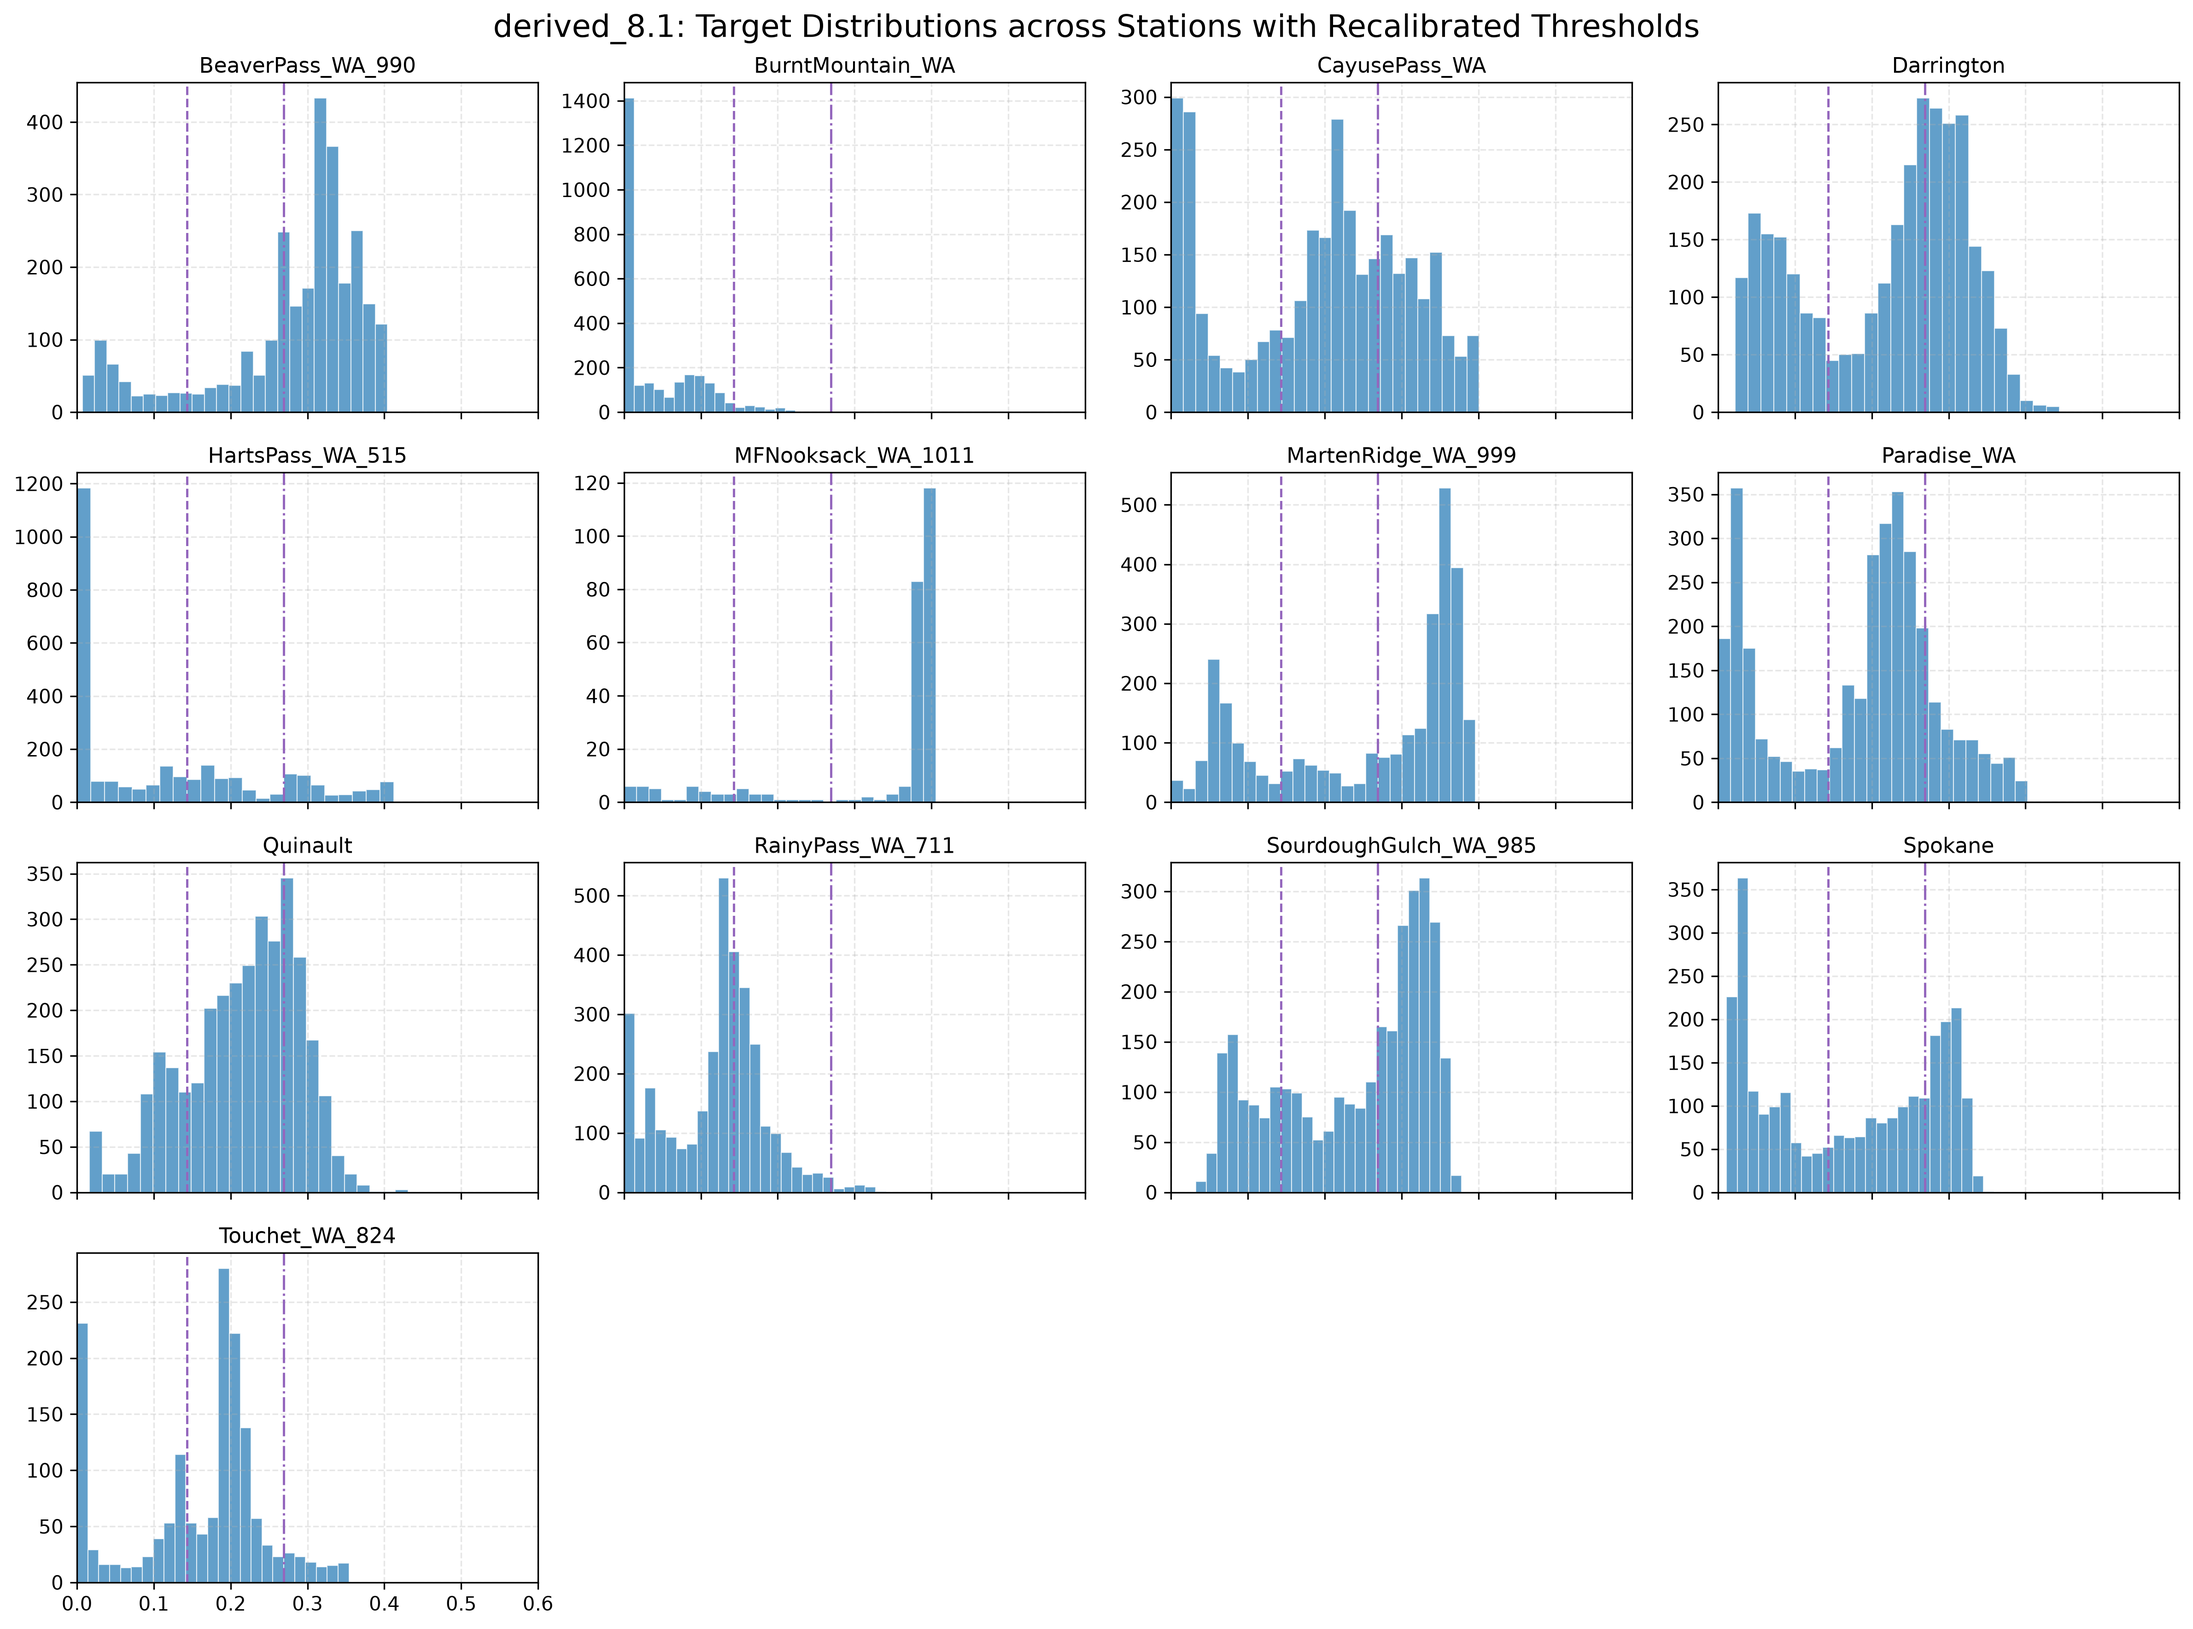
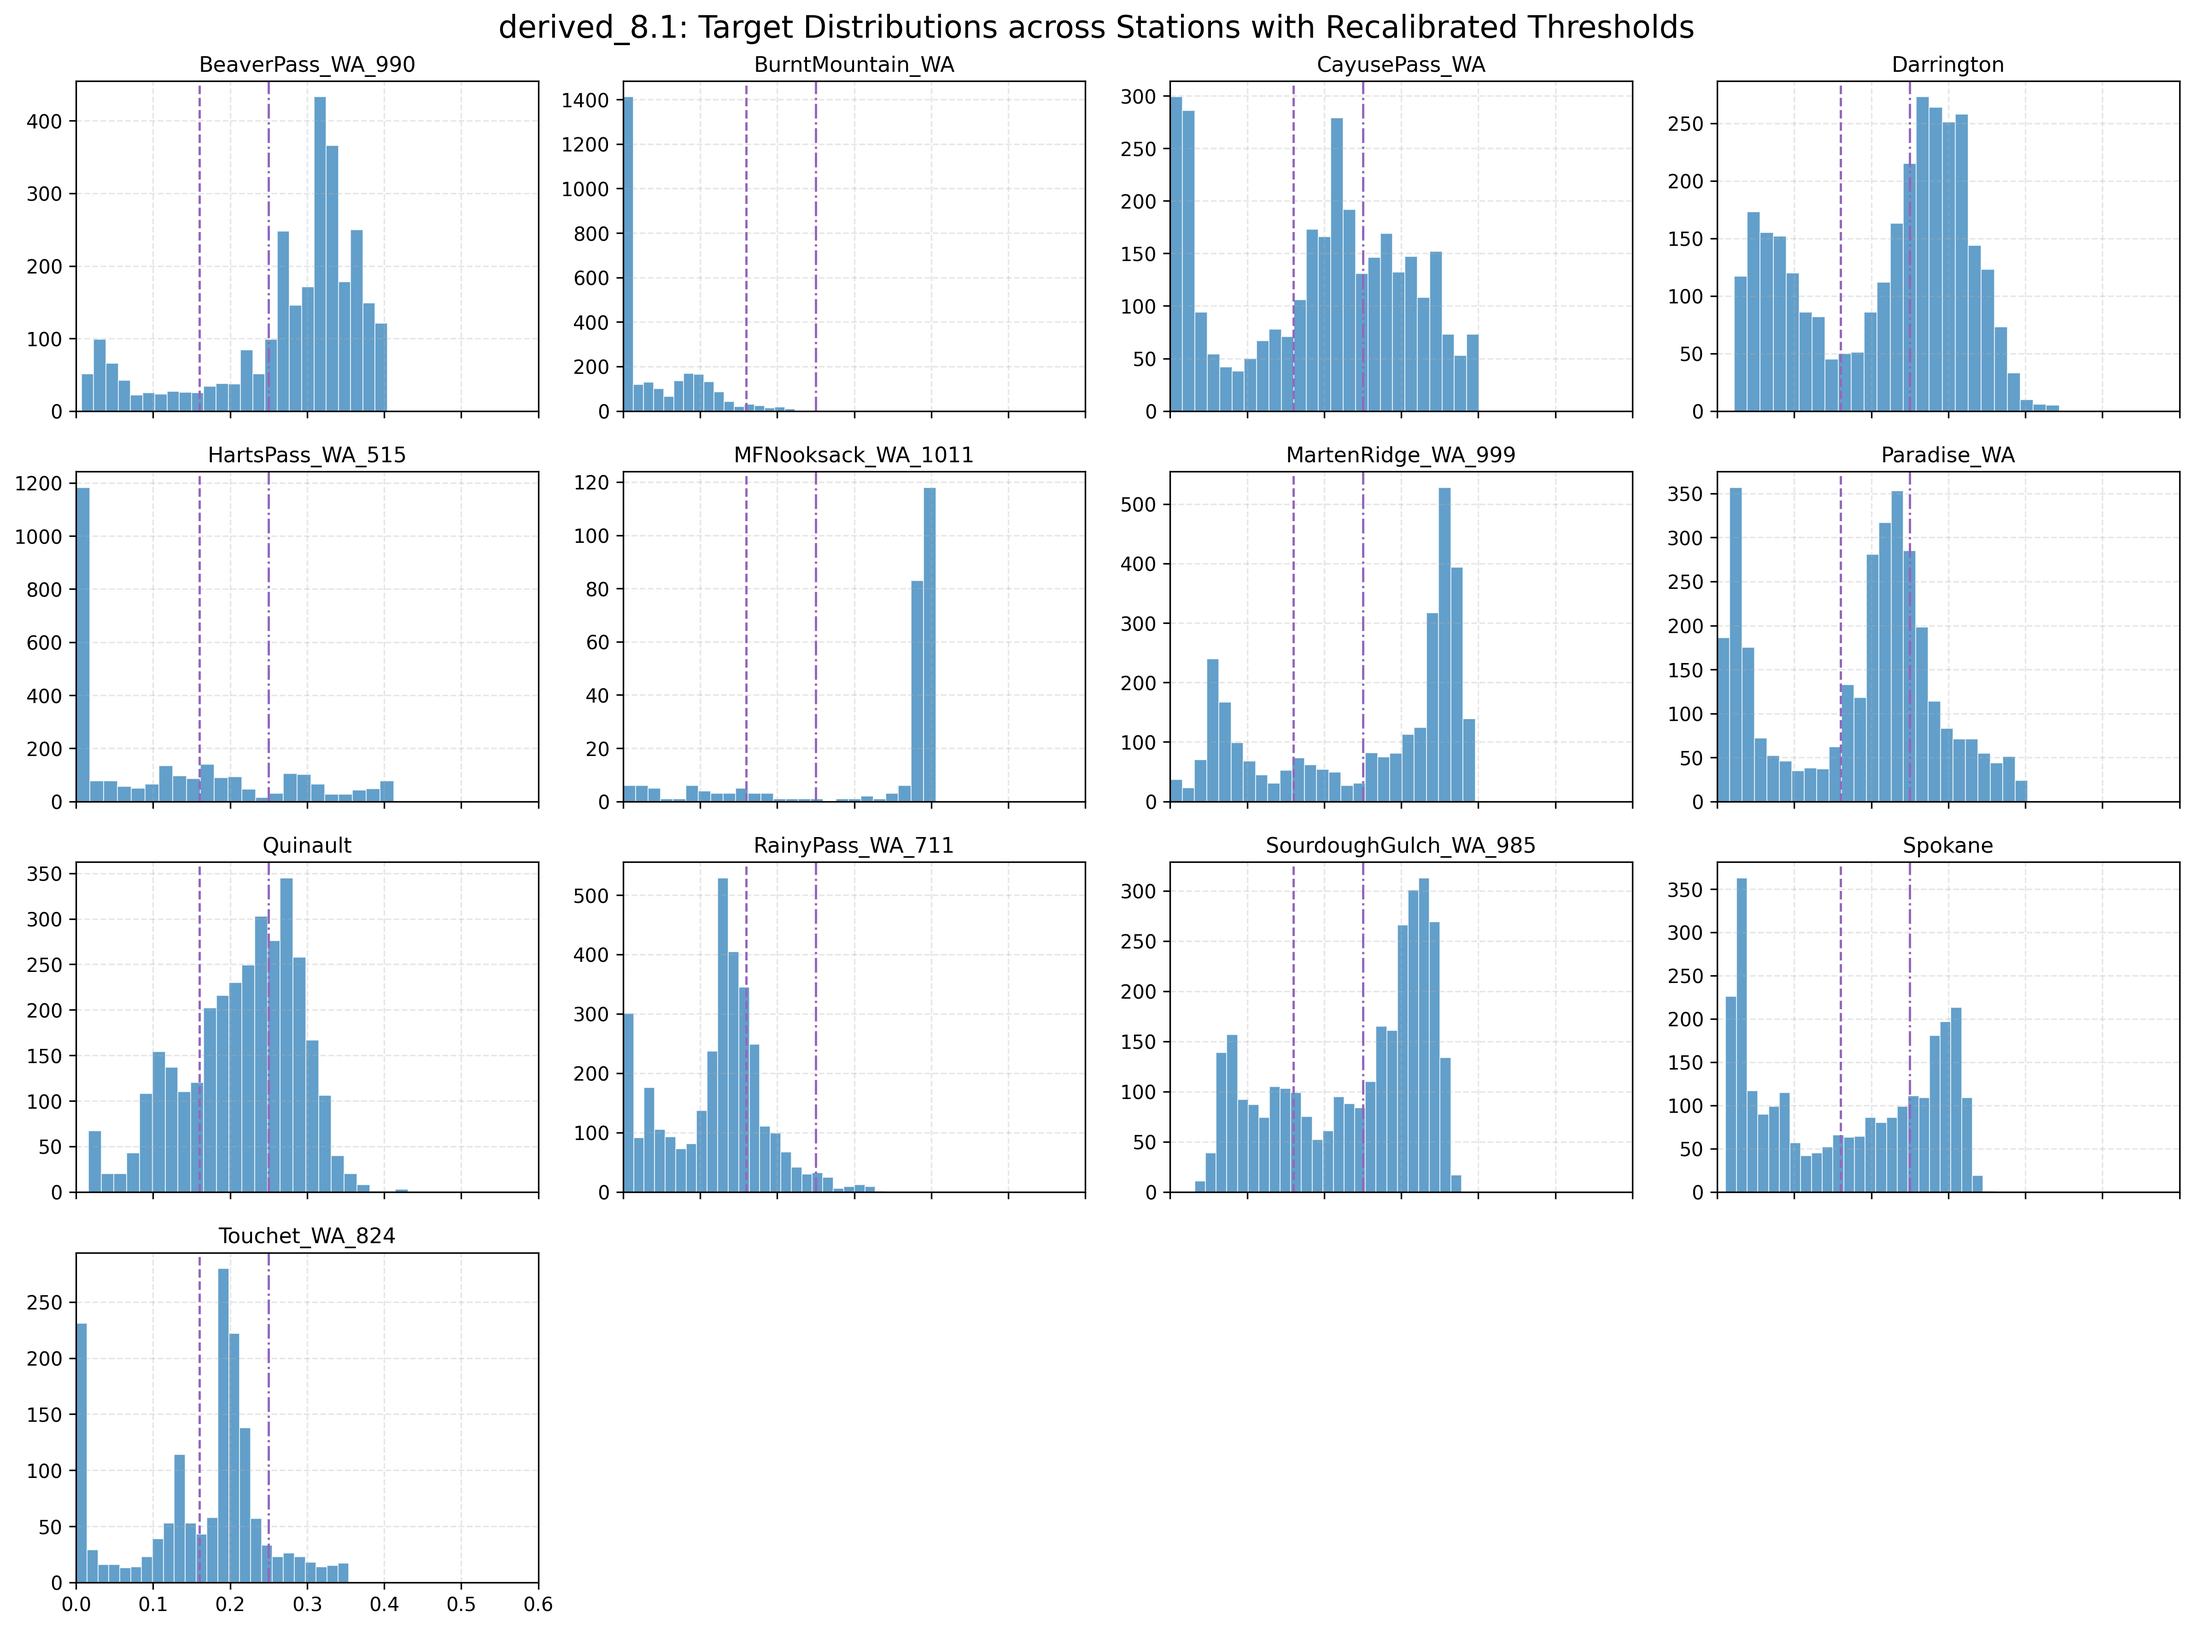
new thresholds for derived_8.1

diff --git a/notebooks/experiment/derived_8.1-data-exploration/analyze_regimes.py b/notebooks/experiment/derived_8.1-data-exploration/analyze_regimes.py
@@ -69,12 +69,12 @@ def main():
     
     t1_80_orig, t2_80_orig = 0.20, 0.313
     t1_90, t2_90 = 0.0993, 0.2115
-    t1_81_cal, t2_81_cal = d81_train["soil_moisture_5cm"].quantile(0.33), d81_train["soil_moisture_5cm"].quantile(0.66)
+    t1_81_cal, t2_81_cal = 0.16, 0.25
     
     print("\n=== Threshold Calibration Options ===")
     print(f"1. Original 8.0 thresholds:       t1 = {t1_80_orig:.4f}, t2 = {t2_80_orig:.4f}")
     print(f"2. Current 9.0 thresholds:        t1 = {t1_90:.4f}, t2 = {t2_90:.4f}")
-    print(f"3. Recalibrated 8.1 thresholds (33/66 percentiles on 8.1 Train): t1 = {t1_81_cal:.4f}, t2 = {t2_81_cal:.4f}")
+    print(f"3. Recalibrated 8.1 thresholds (valleys-based on 8.1 Train): t1 = {t1_81_cal:.4f}, t2 = {t2_81_cal:.4f}")
     
     # Analyze regimes helper
     def analyze_regime_distribution(df, t1, t2, label):
@@ -242,11 +242,11 @@ def main():
     categories = [
         "derived_8.0 Train\n(Orig thresholds: t1=0.20, t2=0.313)",
         "derived_8.1 Train\n(Orig thresholds: t1=0.20, t2=0.313)",
-        "derived_8.1 Train\n(Recalibrated: t1=0.143, t2=0.269)"
+        "derived_8.1 Train\n(Recalibrated: t1=0.160, t2=0.250)"
     ]
-    dry_pcts = [47.7, 47.8, 32.9]
-    trans_pcts = [39.5, 31.1, 33.0]
-    wet_pcts = [12.8, 21.1, 34.1]
+    dry_pcts = [47.7, 47.8, 36.8]
+    trans_pcts = [39.5, 31.1, 24.4]
+    wet_pcts = [12.8, 21.1, 38.8]
 
     plot_df = pd.DataFrame({
         'Dry': dry_pcts,

diff --git a/notebooks/experiment/derived_8.1-data-exploration/README.md b/notebooks/experiment/derived_8.1-data-exploration/README.md
@@ -47,15 +47,15 @@ Analyzing the percentiles of `soil_moisture_5cm` in the training splits reveals 
 | **0% (Min)** | 0.0000 | 0.0000 | 0.0000 |
 | **10%** | 0.0390 | 0.0320 | -0.0070 |
 | **25%** | 0.1210 | 0.1160 | -0.0050 |
-| **33% (t1-cal)** | **0.1570** | **0.1430** | **-0.0140** |
+| **33%** | 0.1570 | 0.1430 | -0.0140 |
 | **50% (Median)** | 0.2060 | 0.2075 | +0.0015 |
-| **66% (t2-cal)** | **0.2530** | **0.2690** | **+0.0160** |
+| **66%** | 0.2530 | 0.2690 | +0.0160 |
 | **75%** | 0.2800 | 0.3020 | +0.0220 |
 | **90%** | 0.3203 | 0.3530 | +0.0327 |
 | **100% (Max)** | 0.4390 | 0.4390 | 0.0000 |
 
 ### Density Distribution comparison
-The plot below displays the density distribution of `soil_moisture_5cm` for the training sets of both versions, showing the locations of the original and recalibrated boundaries:
+The plot below displays the density distribution of `soil_moisture_5cm` for the training sets of both versions, showing the locations of the original and valleys-based boundaries:
 
 ![Soil Moisture Density Comparison](./soil_moisture_density_comparison.png)
 
@@ -68,11 +68,11 @@ The plot below displays the density distribution of `soil_moisture_5cm` for the 
 Below is the aggregated distribution of Dry, Transition, and Wet regimes across both datasets, comparing:
 1. `derived_8.0` Train set (with original thresholds: $t_1 = 0.20, t_2 = 0.313$)
 2. `derived_8.1` Train set (with original thresholds: $t_1 = 0.20, t_2 = 0.313$)
-3. `derived_8.1` Train set (with recalibrated thresholds: $t_1 = 0.143, t_2 = 0.269$)
+3. `derived_8.1` Train set (with recalibrated valleys-based thresholds: $t_1 = 0.160, t_2 = 0.250$)
 
 ![Aggregated Regime Comparison](./aggregated_regime_comparison.png)
 
-*This highlights how the inclusion of new Washington SNOTEL stations increases the proportion of wet observations under the original thresholds (from 12.8% to 21.1%), and how recalibrating the thresholds balances the dataset perfectly at 33% per regime.*
+*This highlights how the inclusion of new Washington SNOTEL stations increases the proportion of wet observations under the original thresholds (from 12.8% to 21.1%), and how using valleys-based thresholds ($t_1 = 0.160, t_2 = 0.250$) splits the data into physically distinct regimes corresponding to modes of the target distribution.*
 
 ---
 
@@ -87,21 +87,21 @@ These boundaries were calibrated on `derived_8.0` and result in severe class imb
 
 While the new SNOTEL stations double the proportion of Wet samples under the original thresholds (from 12.8% to 21.1%), the overall distribution remains heavily skewed toward Dry and Transition.
 
-### Option B: Recalibrated 8.1 Thresholds ($t_1 = 0.143, t_2 = 0.269$)
-To ensure a balanced sample base for each regime-specific model, we recalibrated the thresholds using the **33rd and 66th percentiles** of the `derived_8.1` training split:
-* **Dry**: $y < 0.143$
-* **Transition**: $0.143 \leq y < 0.269$
-* **Wet**: $y \geq 0.269$
+### Option B: Recalibrated Valleys-Based Thresholds ($t_1 = 0.160, t_2 = 0.250$)
+Instead of dividing the dataset into three arbitrary folds or using the outdated `derived_8.0` thresholds, we recalibrate the boundaries based on the natural valleys (density minima) of the `derived_8.1` training distribution:
+* **Dry**: $y < 0.160$ (mode centered around Peak 1 at `0.135`, extending up to the first valley at `0.160`. Values to the right of each peak belong to the same regime.)
+* **Transition**: $0.160 \le y < 0.250$ (mode centered around Peak 2 at `0.200`, extending up to the second valley at `0.250`)
+* **Wet**: $y \ge 0.250$ (mode centered around Peak 3 at `0.310`, extending to the upper tail)
 
-This recalibration successfully partitions the training split into balanced classes and maintains a reasonable balance in the validation and test splits:
+This valleys-based partitioning ensures that each specialist model's training set is aligned with the natural physical boundaries of soil moisture modes:
 
 | Split | Dry | Transition | Wet | Total Rows |
 |---|---|---|---|---|
-| **Train** | 5,419 (32.9%) | 5,431 (33.0%) | 5,612 (34.1%) | 16,462 |
-| **Val** | 3,253 (42.2%) | 1,850 (24.0%) | 2,611 (33.8%) | 7,714 |
-| **Test** | 4,756 (44.9%) | 3,448 (32.5%) | 2,395 (22.6%) | 10,599 |
+| **Train** | 6,053 (36.8%) | 4,014 (24.4%) | 6,395 (38.8%) | 16,462 |
+| **Val** | 3,504 (45.4%) | 1,293 (16.8%) | 2,917 (37.8%) | 7,714 |
+| **Test** | 5,054 (47.7%) | 2,471 (23.3%) | 3,074 (29.0%) | 10,599 |
 
-*Note: The original thresholds ($t_1 = 0.20, t_2 = 0.313$) are misaligned with the new dataset structure and should **not** be reused. Recalibrating to $t_1 = 0.143$ and $t_2 = 0.269$ provides a much more balanced base for MoE model training.*
+*Note: The original thresholds ($t_1 = 0.20, t_2 = 0.313$) are misaligned with the new dataset structure. Recalibrating to the bimodal/multimodal valleys ($t_1 = 0.160$ and $t_2 = 0.250$) provides a physically motivated partition where values to the right of each peak belong to the same regime, maintaining highly distinct training conditions for the specialists.*
 
 ---
 
@@ -116,27 +116,27 @@ Below is the tabular summary of observations, average soil moisture, and regime 
 
 | Station | Total Obs | Mean SM | Min SM | Max SM | Dry % (Count) | Trans % (Count) | Wet % (Count) |
 |:---|:---:|:---:|:---:|:---:|:---:|:---:|:---:|
-| **BeaverPass_WA_990** | 2,811 | 0.2773 | 0.0070 | 0.4040 | 13.0% (366) | 18.2% (511) | **68.8% (1934)** |
-| **BurntMountain_WA** | 2,673 | 0.0406 | 0.0000 | 0.3280 | **95.5% (2552)** | 4.5% (120) | 0.0% (1) |
-| **CayusePass_WA** | 3,179 | 0.1926 | 0.0000 | 0.4010 | 31.5% (1001) | 39.0% (1240) | 29.5% (938) |
-| **Darrington** | 3,047 | 0.2192 | 0.0220 | 0.4440 | 29.2% (891) | 28.8% (878) | 41.9% (1278) |
-| **HartsPass_WA_515** | 2,737 | 0.1123 | 0.0000 | 0.4480 | 63.5% (1738) | 18.3% (502) | 18.2% (497) |
-| **MFNooksack_WA_1011** | 265 | 0.3341 | 0.0000 | 0.4060 | 13.2% (35) | 5.7% (15) | **81.1% (215)** |
-| **MartenRidge_WA_999** | 2,981 | 0.2544 | 0.0000 | 0.3960 | 26.2% (780) | 14.4% (428) | **59.5% (1773)** |
-| **Paradise_WA** | 3,258 | 0.1827 | 0.0000 | 0.4030 | 30.3% (987) | **52.4% (1707)** | 17.3% (564) |
-| **Quinault** | 3,204 | 0.2146 | 0.0160 | 0.4310 | 19.2% (616) | **53.5% (1713)** | 27.3% (875) |
-| **RainyPass_WA_711** | 3,265 | 0.1206 | 0.0000 | 0.3410 | 62.3% (2035) | 36.4% (1187) | 1.3% (43) |
-| **SourdoughGulch_WA_985** | 3,097 | 0.2390 | 0.0320 | 0.3780 | 22.7% (704) | 25.2% (779) | **52.1% (1614)** |
-| **Spokane** | 2,690 | 0.1683 | 0.0110 | 0.3590 | 43.5% (1171) | 27.7% (746) | 28.7% (773) |
-| **Touchet_WA_824** | 1,568 | 0.1590 | 0.0000 | 0.3540 | 35.2% (552) | **57.6% (903)** | 7.2% (113) |
+| **BeaverPass_WA_990** | 2,811 | 0.2773 | 0.0070 | 0.4040 | 14.1% (396) | 9.8% (276) | **76.1% (2139)** |
+| **BurntMountain_WA** | 2,673 | 0.0406 | 0.0000 | 0.3280 | **96.5% (2580)** | 3.4% (92) | 0.0% (1) |
+| **CayusePass_WA** | 3,179 | 0.1926 | 0.0000 | 0.4010 | 33.8% (1075) | 31.1% (989) | 35.1% (1115) |
+| **Darrington** | 3,047 | 0.2192 | 0.0220 | 0.4440 | 30.8% (938) | 18.2% (554) | 51.0% (1555) |
+| **HartsPass_WA_515** | 2,737 | 0.1123 | 0.0000 | 0.4480 | 66.1% (1809) | 14.7% (401) | 19.3% (527) |
+| **MFNooksack_WA_1011** | 265 | 0.3341 | 0.0000 | 0.4060 | 14.7% (39) | 3.8% (10) | **81.5% (216)** |
+| **MartenRidge_WA_999** | 2,981 | 0.2544 | 0.0000 | 0.3960 | 28.1% (839) | 9.5% (283) | **62.4% (1859)** |
+| **Paradise_WA** | 3,258 | 0.1827 | 0.0000 | 0.4030 | 32.3% (1051) | 41.8% (1363) | 25.9% (844) |
+| **Quinault** | 3,204 | 0.2146 | 0.0160 | 0.4310 | 22.8% (732) | 39.4% (1261) | 37.8% (1211) |
+| **RainyPass_WA_711** | 3,265 | 0.1206 | 0.0000 | 0.3410 | 75.3% (2459) | 22.1% (720) | 2.6% (86) |
+| **SourdoughGulch_WA_985** | 3,097 | 0.2390 | 0.0320 | 0.3780 | 26.8% (830) | 16.3% (504) | **56.9% (1763)** |
+| **Spokane** | 2,690 | 0.1683 | 0.0110 | 0.3590 | 46.4% (1248) | 19.3% (518) | 34.3% (924) |
+| **Touchet_WA_824** | 1,568 | 0.1590 | 0.0000 | 0.3540 | 39.2% (615) | 51.5% (807) | 9.3% (146) |
 
 ### Individual Target Histograms per Station
-The small multiples grid below shows the soil moisture density distributions for each station, overlaid with the new recalibrated regime boundaries ($t_1$ and $t_2$):
+The small multiples grid below shows the soil moisture density distributions for each station, overlaid with the new valleys-based regime boundaries ($t_1$ and $t_2$):
 
 ![Soil Moisture Histogram Grid](./soil_moisture_by_station_grid.png)
 
 ### Key Insights from Station-Level Analysis:
-1. **High Heterogeneity**: Stations have very different soil moisture ranges. **BurntMountain** is extremely dry (mean = 0.0406, 95.5% of days in Dry), whereas **MFNooksack** (mean = 0.3341, 81.1% Wet) and **BeaverPass** (mean = 0.2773, 68.8% Wet) are highly wet. 
+1. **High Heterogeneity**: Stations have very different soil moisture ranges. **BurntMountain** is extremely dry (mean = 0.0406, 96.5% of days in Dry), whereas **MFNooksack** (mean = 0.3341, 81.5% Wet) and **BeaverPass** (mean = 0.2773, 76.1% Wet) are highly wet. 
 2. **Data Sparsity**: **MFNooksack** has only **265 observations** total due to missing target sensor data. It should be treated as a sparse target station during model training.
 3. **Balanced Stations**: **Spokane**, **Darrington**, and **CayusePass** span a wide range of values and display bimodal or spread distributions across all three regimes.
 
@@ -146,12 +146,12 @@ The small multiples grid below shows the soil moisture density distributions for
 
 ### 1. Dataset Quality Verdict: **EXCELLENT**
 * The `derived_8.1` dataset provides a **2.5x larger sample set** (34,775 rows).
-* Under recalibrated thresholds, the **Wet regime has 5,612 training samples** (compared to 879 in `derived_8.0`). This solves the minority class undersupply issue highlighted in the handoff notes, providing a robust base to train a high-quality **Wet Specialist** expert model.
+* Under valleys-based thresholds, the **Wet regime has 6,395 training samples** (compared to 879 in `derived_8.0`). This solves the minority class undersupply issue highlighted in the handoff notes, providing a robust base to train a high-quality **Wet Specialist** expert model.
 
 ### 2. Threshold Verdict: **RECALIBRATE**
 * Do **not** use the original thresholds ($t_1=0.20, t_2=0.313$), as they result in a heavily dry-skewed model.
-* Adopt the **recalibrated thresholds ($t_1=0.143, t_2=0.269$)** to ensure balanced class sizes during MoE training.
+* Adopt the **valleys-based thresholds ($t_1=0.160, t_2=0.250$)** to align with the empirical distribution modes.
 
 ### 3. Recommendations for MoE Modeling
-* **Gating Design**: Because individual stations are highly skewed (e.g. BurntMountain is 95% Dry), station-level static features (latitude, longitude, elevation, HWSD clay/sand fractions) will be critical for the router to identify spatial regime shifts.
+* **Gating Design**: Because individual stations are highly skewed (e.g. BurntMountain is 96.5% Dry), station-level static features (latitude, longitude, elevation, HWSD clay/sand fractions) will be critical for the router to identify spatial regime shifts.
 * **Evaluation**: The test split in `derived_8.1` is also larger (10,599 rows), allowing for a much cleaner out-of-sample evaluation of MoE routing strategies (e.g. comparing 3-class vs. 2-class gating as discussed in the handoff notes).
